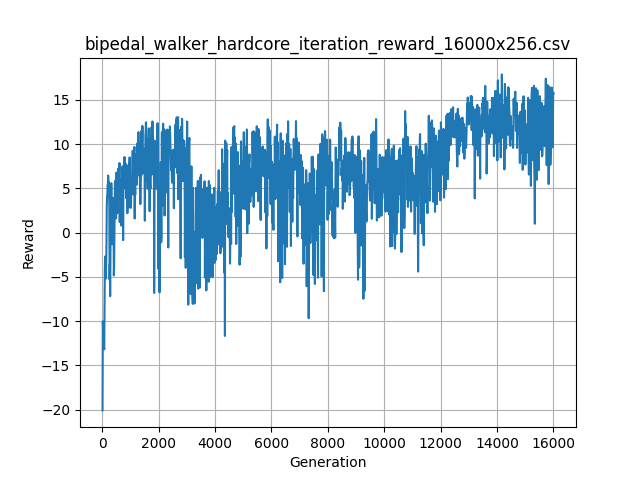
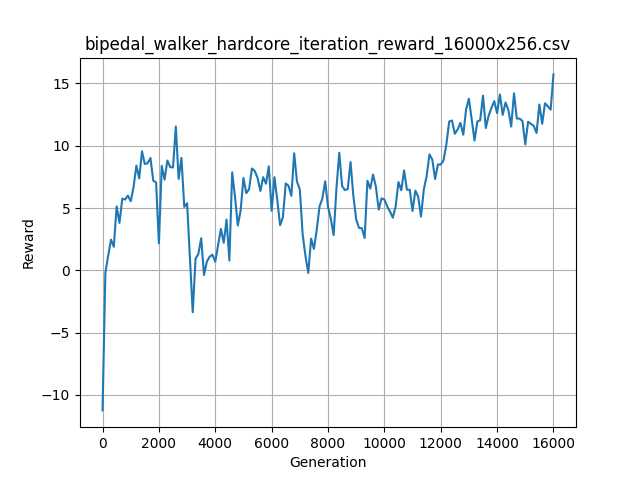
better graphs

diff --git a/data/graphs/plot_graphs.py b/data/graphs/plot_graphs.py
@@ -17,6 +17,11 @@ def plot_graphs():
             df = pd.read_csv(os.path.join(data_dir, file))
             if "iteration_reward" in file:
                 plt.plot(df["generation"], df["reward"])
+                
+                # average reward for every 100 generations
+                # average_reward = df.groupby(df["generation"] // 100 * 100).mean()
+                # plt.plot(average_reward.index, average_reward["reward"])
+                
                 plt.title(file)
                 plt.xlabel("Generation")
                 plt.ylabel("Reward")
